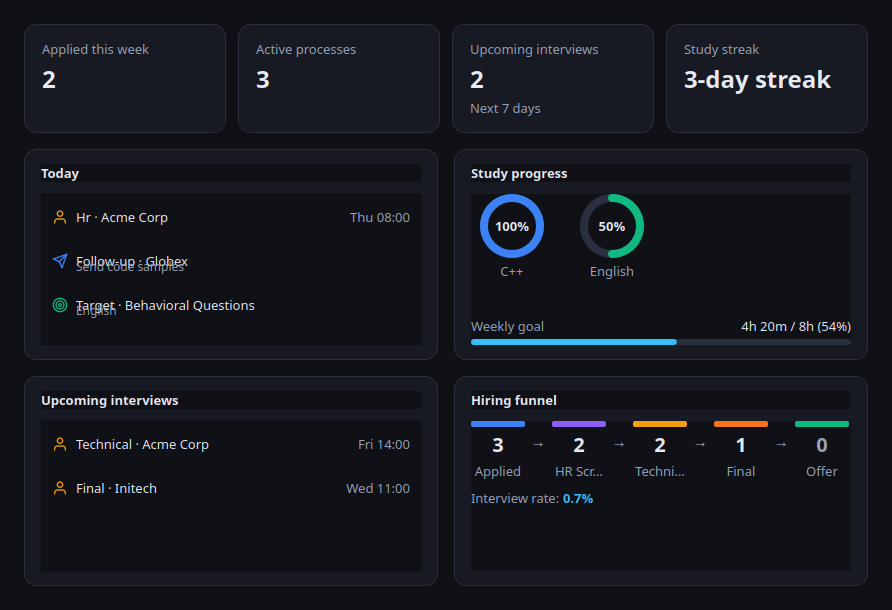
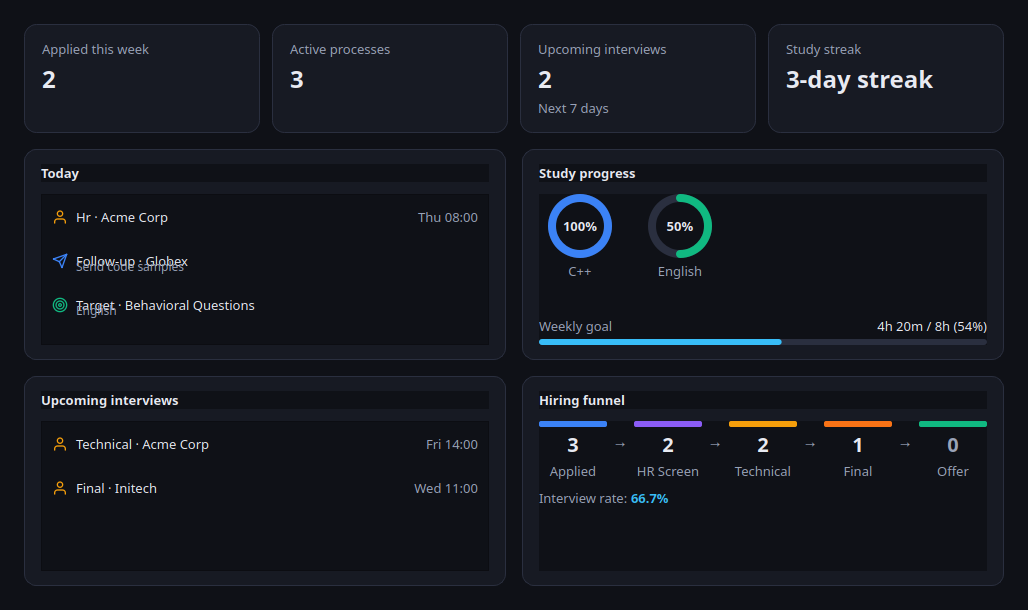
fix(dashboard): fix interview rate calculation, add goal progress bar helpers and ui smoke slots

diff --git a/tests/ui_smoke/tst_UiSmoke.cpp b/tests/ui_smoke/tst_UiSmoke.cpp
@@ -284,6 +284,7 @@ private slots:
     void testFirstDayOfWeekChangeRefreshesWeekNumbers();
     void testStatusBarTextScenarios();
     void testWidgetMetricsAndRingWrapping();
+    void testDashboardIgnoresThemeSidebarAndSplitterChanges();
     void testDashboardScreenshots();
     void testZeroWarnings();
     void cleanupTestCase();
@@ -3485,7 +3486,18 @@ void tst_UiSmoke::testFormatHelper() {
 
     // Interview rate
     QCOMPARE(FormatHelper::formatInterviewRate(std::nullopt), QString::fromUtf8("\u2013"));
-    QCOMPARE(FormatHelper::formatInterviewRate(66.6666), u"66.7%"_s);
+    QCOMPARE(FormatHelper::formatInterviewRate(6.0 / 9.0), u"66.7%"_s);
+
+    // Goal progress bar real and capped percentages
+    AppContext ctx(u":memory:"_s);
+    JobPrep::Ui::Theme::ThemeManager theme(ctx.settings());
+    JobPrep::Ui::Widgets::GoalProgressBar bar(theme);
+    bar.setGoal(260, 360);
+    QCOMPARE(bar.realPercent(), 72);
+    QCOMPARE(bar.cappedPercent(), 72);
+    bar.setGoal(430, 360);
+    QCOMPARE(bar.realPercent(), 119);
+    QCOMPARE(bar.cappedPercent(), 100);
 
     // Streak wording
     QCOMPARE(FormatHelper::formatStreak(0), u"0-day streak"_s);
@@ -3603,6 +3615,23 @@ void tst_UiSmoke::testDashboardNumbersMatchHandCalculatedDataset() {
     QCOMPARE(snap.stats.funnel[4].reachedCount, 1);
     QVERIFY(snap.stats.interviewRate.has_value());
     QVERIFY(qAbs(*snap.stats.interviewRate - (6.0 / 9.0)) < 0.0001);
+
+    // Verify FunnelWidget displays all 5 stages in order and interview rate
+    using JobPrep::Ui::FormatHelper;
+    auto* funnelWidget = win.homePage()->findChild<JobPrep::Ui::Widgets::FunnelWidget*>();
+    QVERIFY(funnelWidget != nullptr);
+    QCOMPARE(funnelWidget->stages().size(), 5);
+    QCOMPARE(FormatHelper::funnelStageLabel(funnelWidget->stages()[0].status), u"Applied"_s);
+    QCOMPARE(funnelWidget->stages()[0].reachedCount, 9);
+    QCOMPARE(FormatHelper::funnelStageLabel(funnelWidget->stages()[1].status), u"HR Screen"_s);
+    QCOMPARE(funnelWidget->stages()[1].reachedCount, 6);
+    QCOMPARE(FormatHelper::funnelStageLabel(funnelWidget->stages()[2].status), u"Technical"_s);
+    QCOMPARE(funnelWidget->stages()[2].reachedCount, 4);
+    QCOMPARE(FormatHelper::funnelStageLabel(funnelWidget->stages()[3].status), u"Final"_s);
+    QCOMPARE(funnelWidget->stages()[3].reachedCount, 2);
+    QCOMPARE(FormatHelper::funnelStageLabel(funnelWidget->stages()[4].status), u"Offer"_s);
+    QCOMPARE(funnelWidget->stages()[4].reachedCount, 1);
+    QCOMPARE(FormatHelper::formatInterviewRate(funnelWidget->interviewRate()), u"66.7%"_s);
 }
 
 void tst_UiSmoke::testDashboardEmptyStateActionButtons() {
@@ -3627,12 +3656,34 @@ void tst_UiSmoke::testDashboardEmptyStateActionButtons() {
     QCoreApplication::processEvents();
     QCOMPARE(countApplicationDialogs(), 0);
 
-    // Button 2: "+ Add topic" -> emits addTopicRequested which calls newTopicFromHeader
+    // Button 2: "+ Add topic" with no tracks -> emits addTopicRequested -> TrackDialog
     withNextModal([](QWidget* modal) {
         if (auto* dlg = qobject_cast<TrackDialog*>(modal)) dlg->reject();
     });
     emit emptyState->secondaryActionClicked();
     QCoreApplication::processEvents();
+
+    // Button 2: "+ Add topic" with tracks -> switches to Study page, Backlog quick-add focused, NO dialog
+    Track track;
+    track.name = u"C++"_s;
+    track.color = u"#3b82f6"_s;
+    QVERIFY(ctx.tracks().insert(track));
+
+    // Switch back to HomePage
+    win.sidebar()->setCurrentPage(0);
+    emit win.sidebar()->pageSelected(0);
+    QCoreApplication::processEvents();
+    QCOMPARE(win.pageStack()->currentIndex(), 0);
+
+    bool unexpectedDialogShown = false;
+    withNextModal([&unexpectedDialogShown](QWidget*) {
+        unexpectedDialogShown = true;
+    });
+    emit emptyState->secondaryActionClicked();
+    QCoreApplication::processEvents();
+
+    QCOMPARE(win.pageStack()->currentIndex(), 1); // StudyPage
+    QVERIFY(!unexpectedDialogShown);
 }
 
 void tst_UiSmoke::testDashboardTodayItemClicksOpenRespectiveDialogs() {
@@ -3929,6 +3980,28 @@ void tst_UiSmoke::testWidgetMetricsAndRingWrapping() {
             QVERIFY2(!ri.intersects(rj), qPrintable(u"Ring %1 overlaps with ring %2"_s.arg(i).arg(j)));
         }
     }
+}
+
+void tst_UiSmoke::testDashboardIgnoresThemeSidebarAndSplitterChanges() {
+    AppContext ctx(u":memory:"_s);
+    MainWindow win(ctx);
+    win.resize(1100, 700);
+    win.show();
+    QCoreApplication::processEvents();
+
+    const int initialCount = win.dashboardController()->refreshCount();
+    ctx.settings().setThemeMode(u"dark"_s);
+    ctx.settings().setSidebarCollapsed(true);
+    ctx.settings().setStudySplitterState(QByteArray("fake_splitter_state"));
+    QCoreApplication::processEvents();
+
+    // Must NOT have triggered a dashboard refresh
+    QCOMPARE(win.dashboardController()->refreshCount(), initialCount);
+
+    // Activating HomePage MUST trigger requestRefresh()
+    win.homePage()->onActivated();
+    QCoreApplication::processEvents();
+    QCOMPARE(win.dashboardController()->refreshCount(), initialCount + 1);
 }
 
 void tst_UiSmoke::testDashboardScreenshots() {

diff --git a/src/ui/widgets/GoalProgressBar.h b/src/ui/widgets/GoalProgressBar.h
@@ -21,6 +21,10 @@ public:
 
     int weekMinutes() const { return m_weekMinutes; }
     int goalMinutes() const { return m_goalMinutes; }
+    int realPercent() const {
+        return m_goalMinutes > 0 ? qRound(m_weekMinutes * 100.0 / m_goalMinutes) : 0;
+    }
+    int cappedPercent() const { return qMin(100, realPercent()); }
 
     QSize sizeHint() const override;
     QSize minimumSizeHint() const override;

diff --git a/src/ui/FormatHelper.cpp b/src/ui/FormatHelper.cpp
@@ -29,7 +29,7 @@ QString FormatHelper::formatInterviewRate(const std::optional<double>& rate) {
     if (!rate.has_value()) {
         return QString::fromUtf8("\u2013");  // en-dash
     }
-    return tr("%1%").arg(QString::number(*rate, 'f', 1));
+    return tr("%1%").arg(QString::number(*rate * 100.0, 'f', 1));
 }
 
 QString FormatHelper::formatStreak(int days) {
